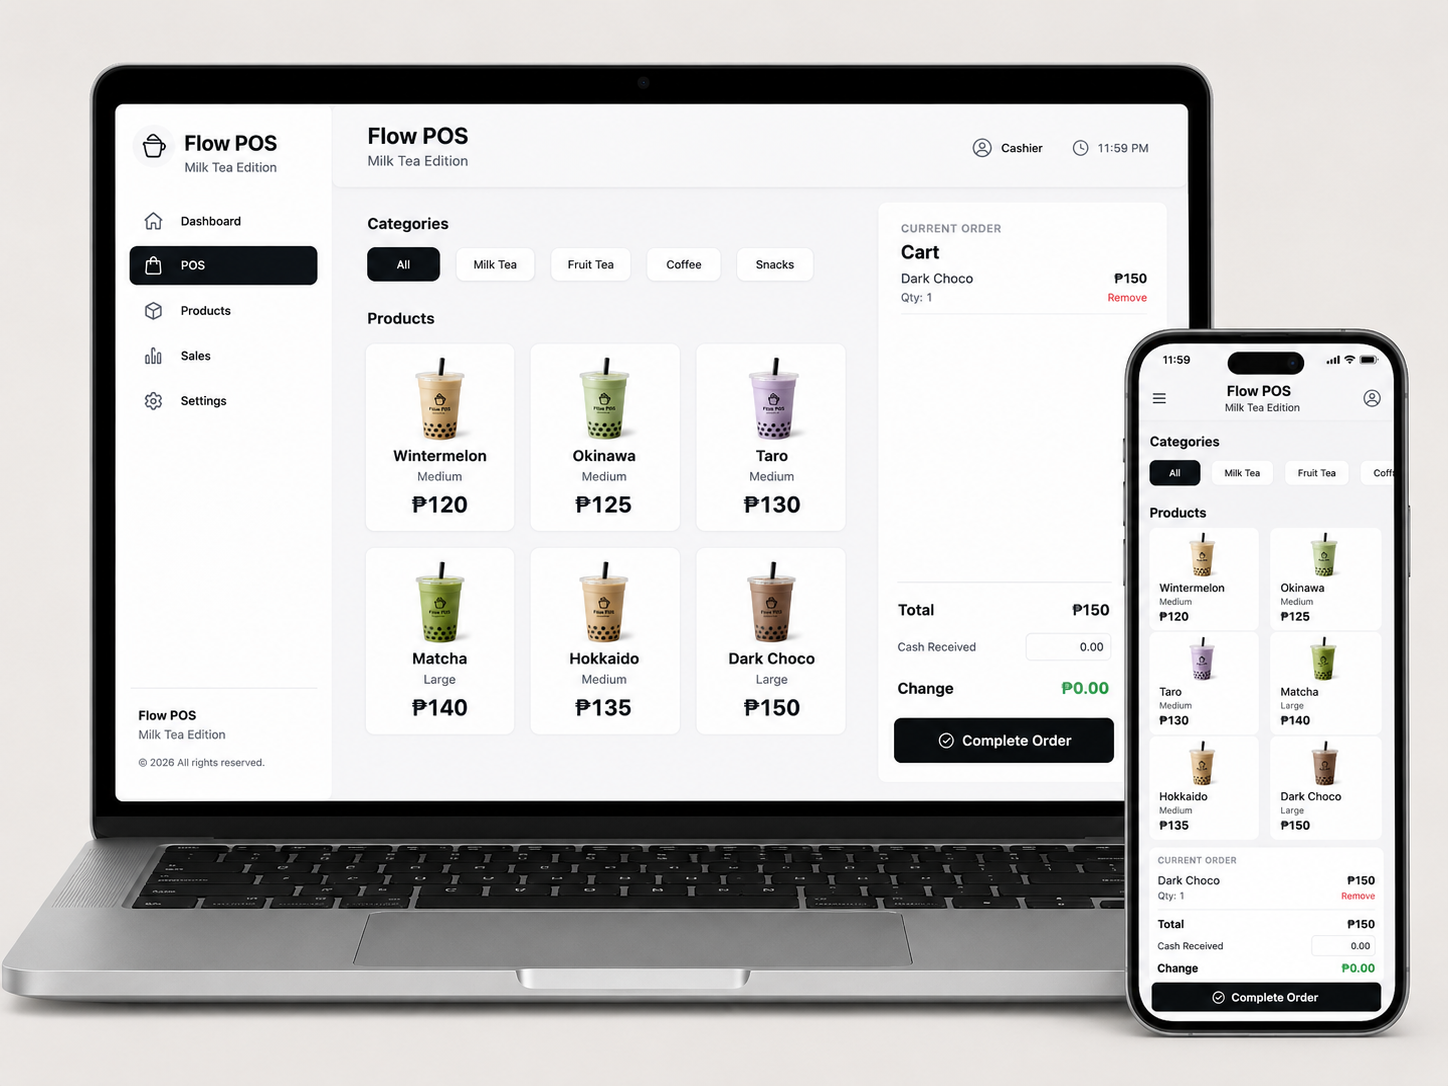
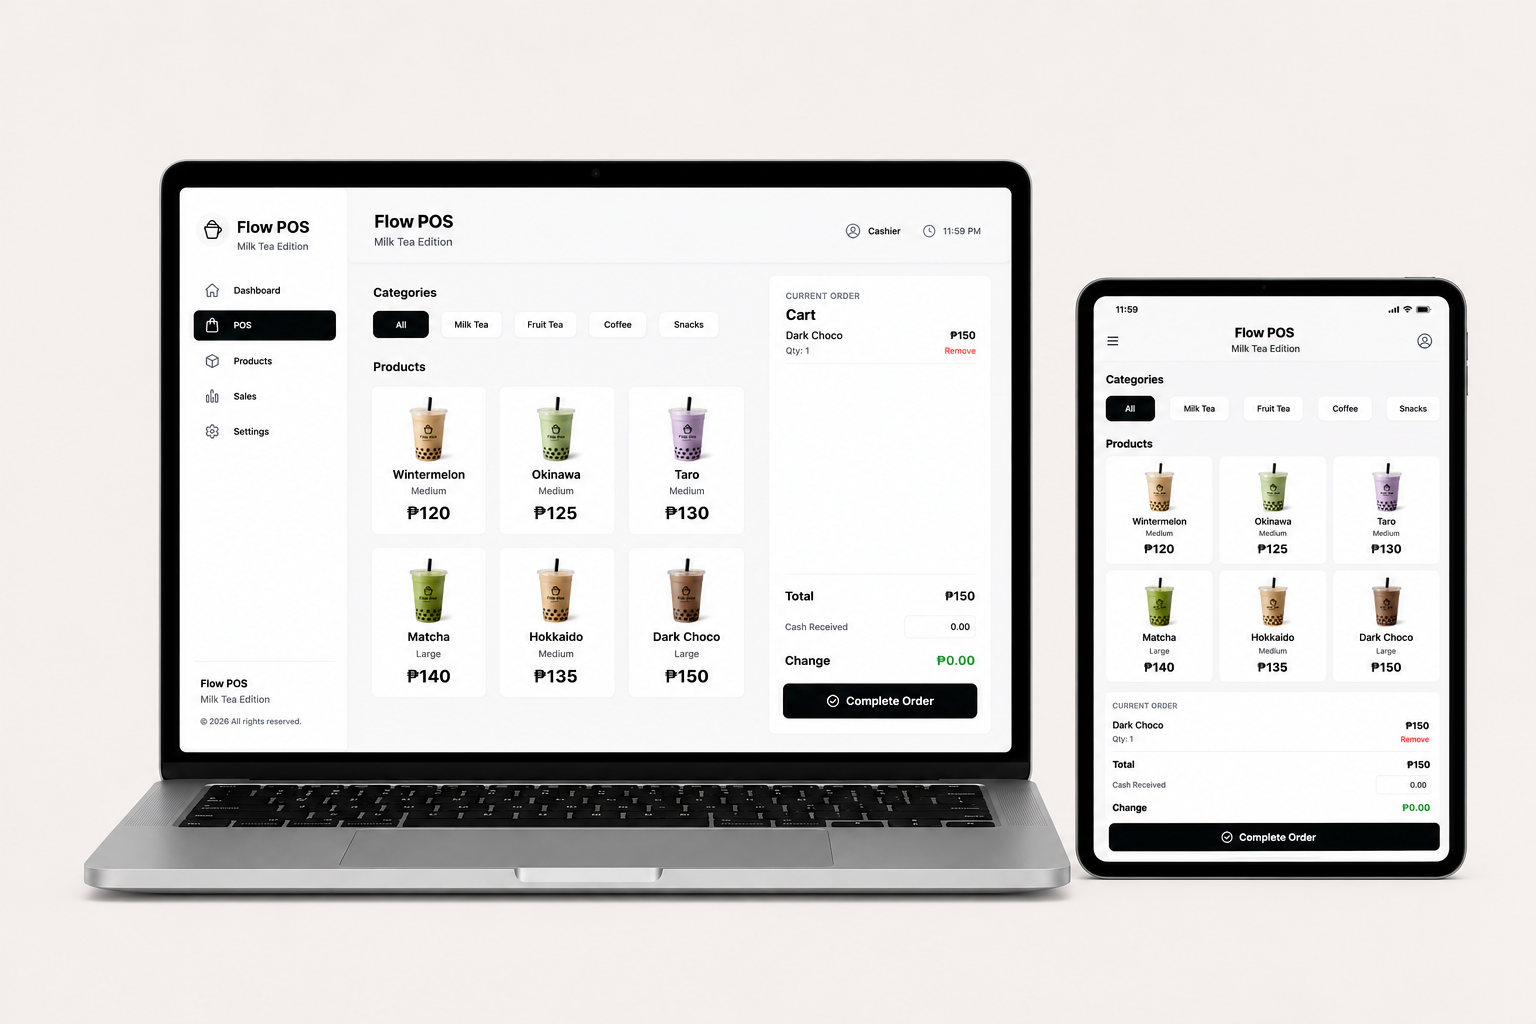
added animation for about section and adjust padding

diff --git a/style.css b/style.css
@@ -126,7 +126,7 @@
   
   .nav-logo img {
   display: block;
-  height: 120px;
+  height: 105px;
   width: auto;
   object-fit: contain;
   }
@@ -962,6 +962,8 @@
   color: var(--text);
 
   transition: color 0.25s ease;
+
+  animation: breatheText 6s ease-in-out infinite;
 }
 
 .contact-form button::after {
@@ -970,16 +972,42 @@
   left: 0;
   bottom: 0;
 
-  width: 32px;
+  width: 28px;
   height: 1px;
 
   background: var(--text);
 
-  animation: breatheLine 4s ease-in-out infinite;
+  animation: breatheUnderline 6s ease-in-out infinite;
 
-  transition:
-    width .35s cubic-bezier(.16,1,.3,1),
-    background-color .25s ease;
+  transition: background-color 0.25s ease;
+}
+
+@keyframes breatheText {
+  0%,
+  100% {
+    transform: scale(1);
+    opacity: 0.72;
+  }
+
+  45%,
+  65% {
+    transform: scale(1.015);
+    opacity: 1;
+  }
+}
+
+@keyframes breatheUnderline {
+  0%,
+  100% {
+    width: 28px;
+    opacity: 0.55;
+  }
+
+  45%,
+  65% {
+    width: 100%;
+    opacity: 1;
+  }
 }
 
 .contact-form button:hover {
@@ -989,6 +1017,12 @@
 .contact-form button:hover::after {
   width: 100%;
   background: var(--text-muted);
+}
+
+/* --- Contact Section Spacing --- */
+
+.contact {
+  padding: 100px 0 0px;
 }
   
   /* --- Footer --- */
@@ -1022,11 +1056,11 @@
     }
 
     .nav-logo {
-      margin-left: -15px;
+      margin-left: -20px;
     }
     
     .nav-logo img {
-      height: 110px;
+      height: 90px;
       width: auto;
     }
   
@@ -1072,6 +1106,16 @@
 .nav-links.active > a {
   opacity: 1;
   transform: translateY(0);
+}
+
+/* --- Contact Layout Mobile --- */
+
+.contact-form {
+  order: 1;
+}
+
+.contact-info {
+  order: 2;
 }
 
 /* --- Contact Form Mobile --- */
@@ -1258,6 +1302,11 @@
       font-size: 12px;
       margin-bottom: 40px;
     }
+
+    /* --- Mobile Contact Spacing --- */
+    .contact {
+      padding-bottom: 0px;
+    }
   
     .footer {
       padding: 24px 0;
@@ -1289,17 +1338,72 @@
   }
 
   @keyframes breatheLine {
-
-    0% {
-      width: 32px;
-    }
-  
-    50% {
-      width: 42px;
-    }
-  
+    0%,
     100% {
       width: 32px;
+      opacity: 0.55;
     }
   
+    45% {
+      width: 80px;
+      opacity: 1;
+    }
+  
+    70% {
+      width: 80px;
+      opacity: 1;
+    }
   }
+
+  
+/* ==========================================
+        ABOUT TECH STACK ANIMATION
+========================================== */
+
+.stack-item {
+  display: flex;
+  align-items: center;
+  padding: 10px 0 10px 34px;
+  border-bottom: 1px solid var(--border);
+}
+
+.stack-marker {
+  display: none;
+}
+
+.stack-text {
+  color: var(--text-muted);
+  transition:
+    transform .45s cubic-bezier(.22,1,.36,1),
+    color .35s ease;
+}
+
+.stack-item.is-active .stack-text {
+  transform: translateX(8px);
+  color: var(--text);
+  font-weight: 500;
+}
+
+/* ==========================================
+   VERTICAL PROGRESS RAIL (add-on)
+========================================== */
+
+.stack-rail-track{
+  position: absolute;
+  top: 0;
+  bottom: 0;
+  left: 0;
+  width: 1px;
+  background: var(--border);
+}
+
+.stack-rail-dot{
+  position: absolute;
+  left: -3px;
+  top: 0;
+  width: 7px;
+  height: 7px;
+  border-radius: 50%;
+  background: var(--text);
+  transition: transform .55s cubic-bezier(.65,0,.35,1);
+}

diff --git a/app.js b/app.js
@@ -464,10 +464,20 @@ const renderAbout = () => {
   stackList.style.color = 'var(--text-muted)';
 
   config.tools.forEach(tool => {
-    const li = createEl('li', '', tool.name);
-    li.style.padding = '8px 0';
-    li.style.borderBottom = '1px solid var(--border)';
+
+    const li = createEl('li', 'stack-item');
+  
+    li.dataset.tool = tool.name;
+  
+    const marker = createEl('span', 'stack-marker');
+  
+    const text = createEl('span', 'stack-text', tool.name);
+  
+    li.appendChild(marker);
+    li.appendChild(text);
+  
     stackList.appendChild(li);
+  
   });
 
   stackCol.appendChild(stackTitle);
@@ -779,18 +789,62 @@ const renderContact = () => {
       }
     });
   };
+  
+// ==========================================
+//   ABOUT TECH STACK ANIMATION SCRIPT
+// ==========================================
+const initTechStackAnimation = () => {
+  const items = document.querySelectorAll('.stack-item');
+  if (!items.length) return;
+
+  const list = items[0].parentElement;
+  list.style.position = 'relative'; // kailangan para ma-anchor yung rail/dot
+
+  // gawin lang ito minsan — idinadagdag yung rail track + dot sa list
+  const track = document.createElement('div');
+  track.className = 'stack-rail-track';
+  const dot = document.createElement('div');
+  dot.className = 'stack-rail-dot';
+  list.appendChild(track);
+  list.appendChild(dot);
+
+  let current = 0;
+
+  const positionDot = (index) => {
+    const item = items[index];
+    const listRect = list.getBoundingClientRect();
+    const itemRect = item.getBoundingClientRect();
+    const y = (itemRect.top - listRect.top) + (itemRect.height / 2) - (dot.offsetHeight / 2);
+    dot.style.transform = `translateY(${y}px)`;
+  };
+
+  const activate = (index) => {
+    items.forEach(item => item.classList.remove('is-active'));
+    items[index].classList.add('is-active');
+    positionDot(index);
+  };
+
+  activate(current);
+
+  setInterval(() => {
+    current = (current + 1) % items.length;
+    activate(current);
+  }, 900);
+};
+
 
     // --- init all ---
     renderNav();
     renderHero();
     renderTools();
-    renderServices();
+    renderServices();   
     renderWork();
     renderAbout();
     renderContact();
     renderFooter();
     initScrollReveal();
     initScrambleEffect();
+    initTechStackAnimation();
   
     // Kick off assembly after a short settle
     setTimeout(runAssemblySequence, 120);

diff --git a/config.js b/config.js
@@ -136,13 +136,14 @@ services: [
 
   // --- PROJECTS ---
   projects: [
+
     {
-      title: "E-COMMERCE PLATFORM",
+      title: "Point of Sale (POS) System",
       category: "Web Application",
       year: "2026",
-      image: "assets/images/projects/ecommerce.PNG",
-      description: "",
-      link: "https://dsr3000.netlify.app/",
+      image: "assets/images/projects/pos.PNG",
+      description: "POS/Internal Management Tool",
+      link: "https://jp-demopos.netlify.app/",
       status: "live",
       badge: "demo"
     },
@@ -153,23 +154,26 @@ services: [
       year: "2026",
       image: "assets/images/projects/tattoo.PNG",
       description: "Tattoo Studio",
-      link: "https://tattoo-studio-demo.netlify.app/",
+      link: "https://tattoo-livedemo.netlify.app/",
       status: "live",
       badge: "demo"
     },
 
     {
-      title: "Point of Sale (POS) System",
+      title: "E-COMMERCE PLATFORM",
       category: "Web Application",
       year: "2026",
-      image: "assets/images/projects/pos.PNG",
+      image: "assets/images/projects/ecommerce.PNG",
       description: "",
-      link: "#",
-      status: "coming"
+      link: "https://dsr3000.netlify.app/",
+      status: "coming",
+      badge: "demo"
     },
 
+    
+
     {
-      title: "BARBER SHOP",
+      title: "SALON/BARBER SHOP",
       category: "Web Application",
       year: "2026",
       image: "assets/images/projects/work.PNG",
